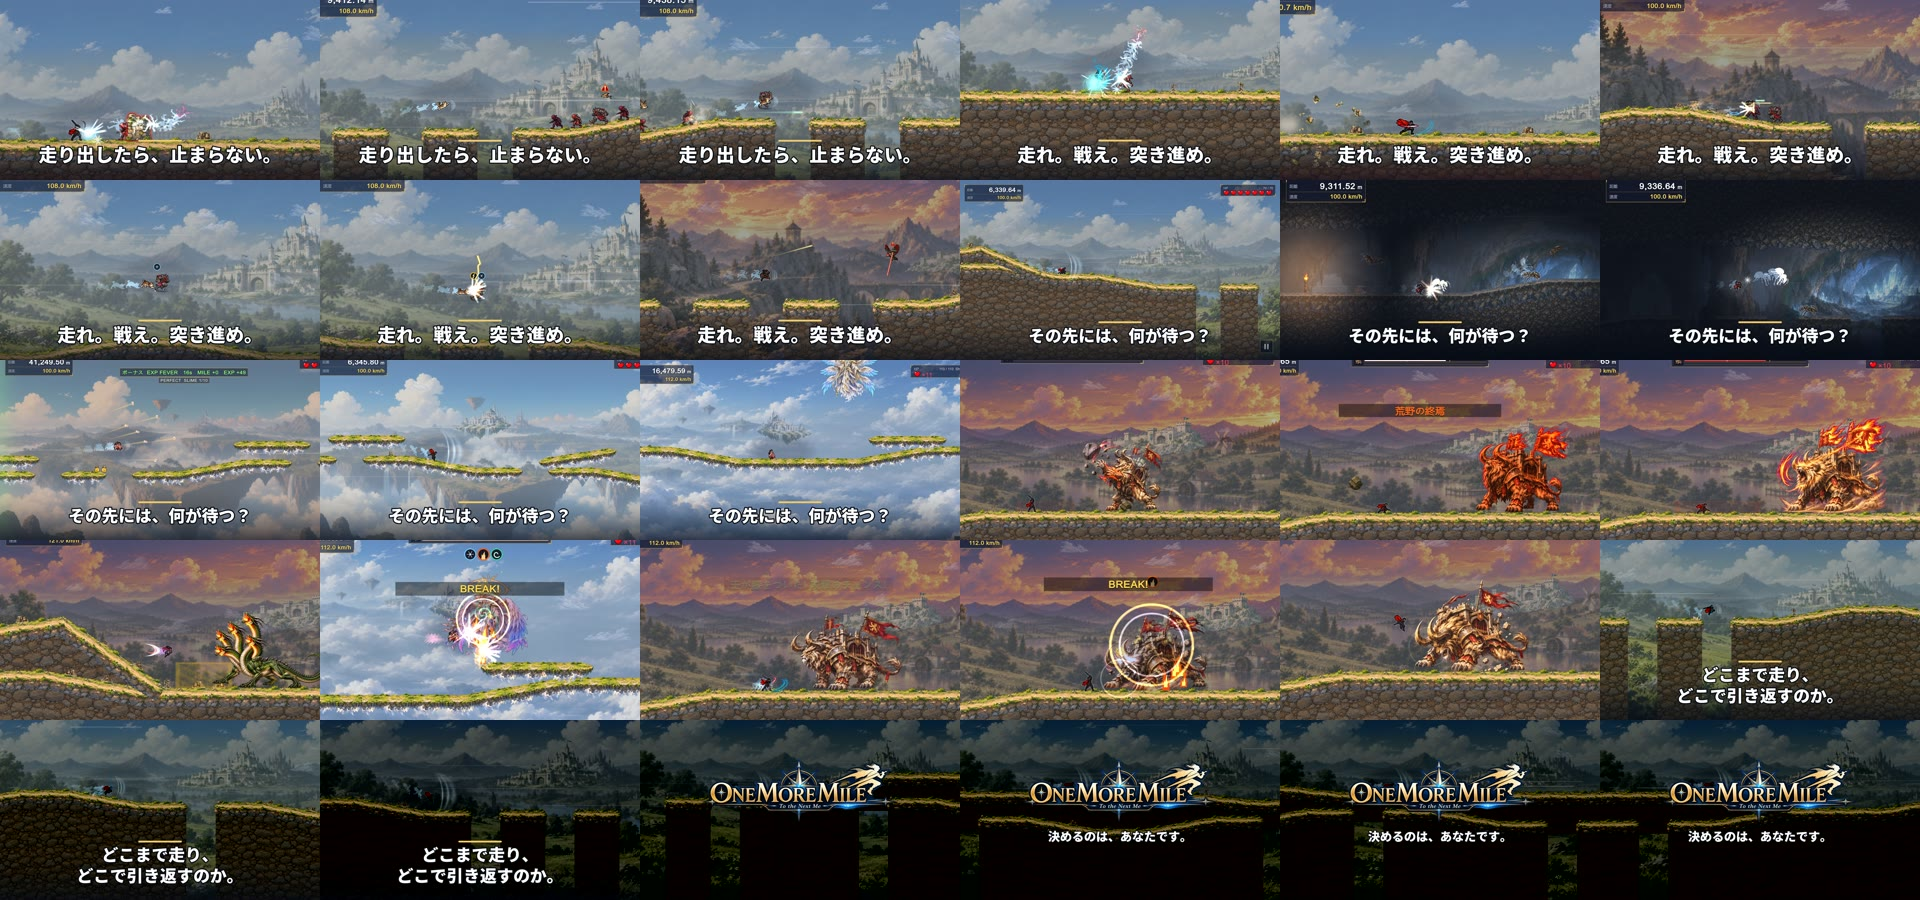
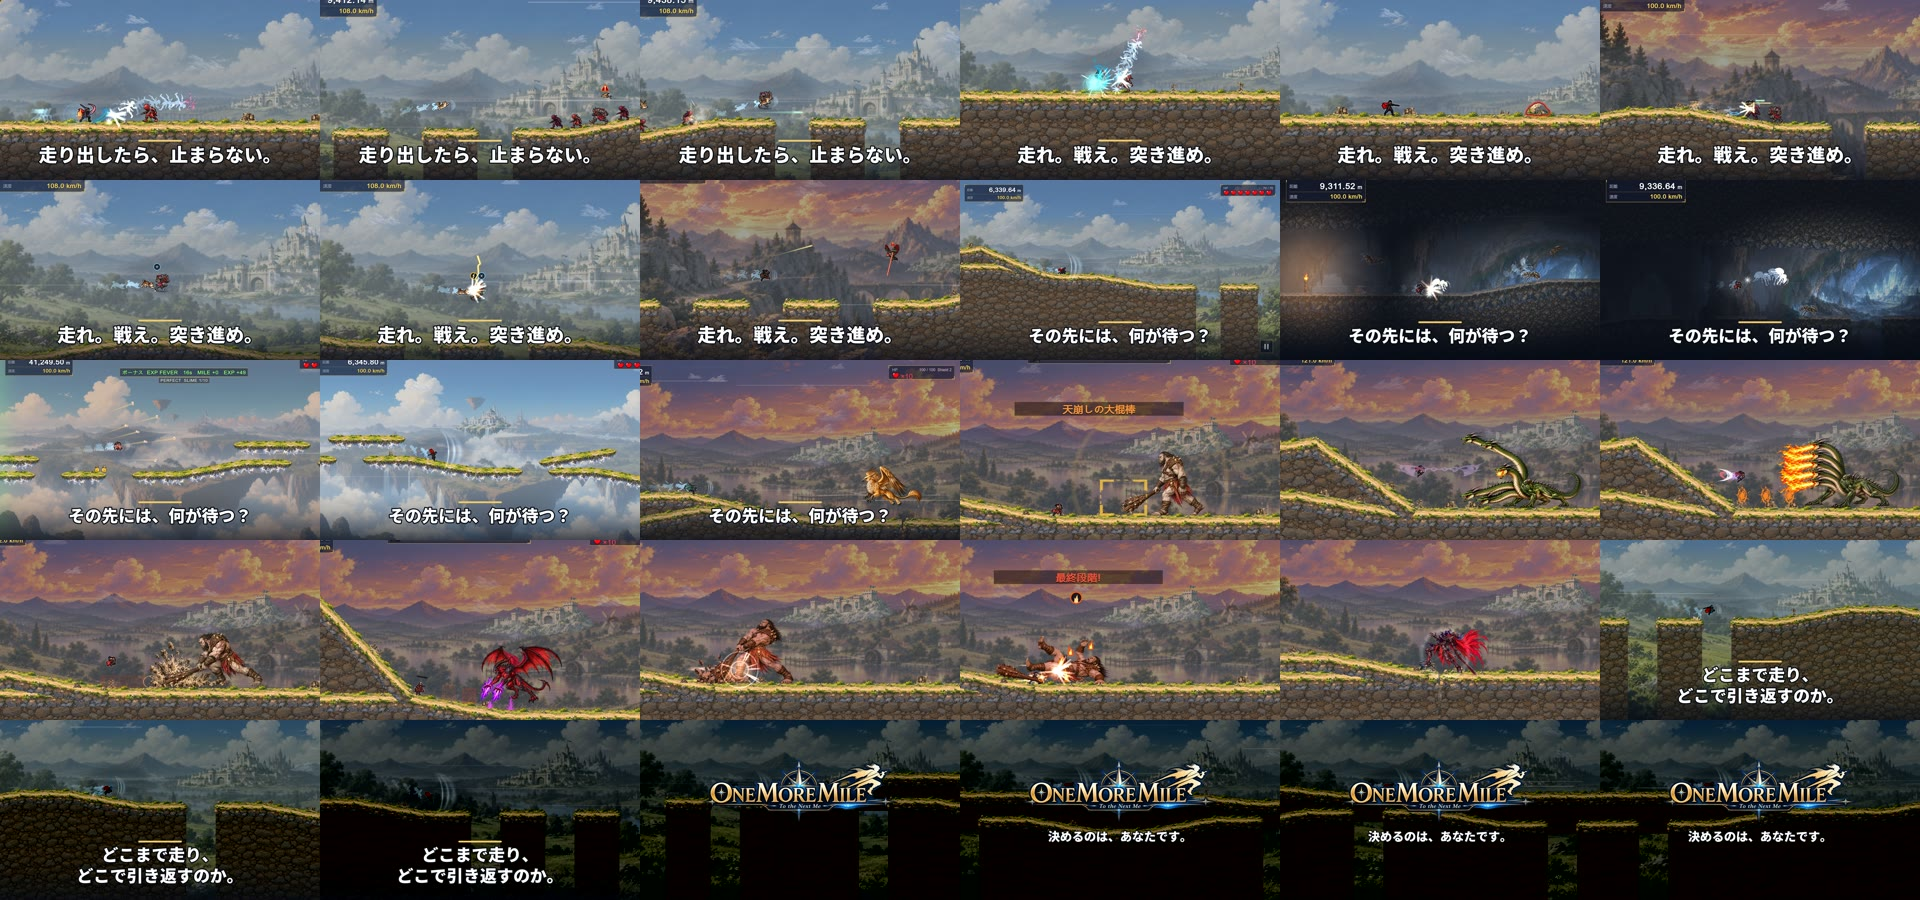
X 紹介 PV 第2版: ボスを通常ボスへ差し替え(ネタバレ回避)、冒頭を撮り直し
- 98km のラスボスを使わず、サイクロプス/ヒュドラ/デーモン/黒騎士/グリフォンで
  必殺技→回避→BREAK→最終段階→撃破
- 冒頭の赤い地面の場面を撮り直した場面へ(LEVEL UP の手前で切る)
- 4:5 の寄せは採用、全コマで キャラ/敵/予兆の見切れが無いことを確認
- 撮影の場面に通常ボス5体を追加(撮影用/開発版のみ)

Changed region(s): [[0.0, 0.3733, 1.0, 0.8089], [0.6562, 0.0, 0.8438, 0.1867], [0.0, 0.0, 0.1875, 0.1867]]

diff --git a/Docs/XPromo_2026-11-08/make_edl.py b/Docs/XPromo_2026-11-08/make_edl.py
@@ -7,11 +7,11 @@ def cut(shot, inn, beats, cx=.5, cy=.45, z45=1.25, z169=1.45, **kw):
     c.update(kw); return c
 cuts = [
     # A 0〜3秒: 強烈な導入(高速で走りながら斬り倒す)
-    cut("play/raw/aerial", 0.62, 4, cx=.50, cy=.34, z45=1.6, z169=1.75, scene="黒剣士: 斬り抜けて敵をまとめて打ち上げる(荒野街道)"),
+    cut("boss3/raw/aerial", 0.55, 4, cx=.48, cy=.40, z45=1.6, z169=1.75, scene="黒剣士: 雷の一撃 → 斬り抜けて敵をまとめて吹き飛ばす(荒野街道)"),
     cut("play/raw/pv_luka", 7.50, 4, cx=.42, cy=.40, scene="ルカ: 108km/h で敵の群れを突き抜ける(荒野街道)"),
     # B 3〜9秒: 爽快なアクション
     cut("play/raw/aerial_dual", 0.70, 3, cx=.40, cy=.50, z45=1.4, z169=1.55, scene="双剣士: 斬り上げ → 雷"),
-    cut("play/raw/aerial", 1.60, 2, cx=.42, cy=.36, z45=1.6, z169=1.75, scene="黒剣士: 空中の斬撃"),
+    cut("boss3/raw/aerial", 1.70, 2, cx=.45, cy=.42, z45=1.6, z169=1.75, scene="黒剣士: 走りながらの斬撃"),
     cut("play/raw/gunslinger", 1.45, 4, cx=.36, cy=.42, scene="二丁拳銃士: 撃ち抜いて吹き飛ばす(夕暮れの荒野)"),
     cut("play/raw/pv_luka", 9.65, 4, cx=.36, cy=.42, scene="ルカ: 空中で捕まえて連撃(雷)"),
     cut("play/raw/gunslinger", 9.40, 3, cx=.40, cy=.45, scene="二丁拳銃士: 空の敵の光線の下を駆け抜ける"),
@@ -20,14 +20,14 @@ cuts = [
     cut("play/raw/pv_fighter", 4.55, 4, cx=.36, cy=.40, z45=1.2, z169=1.35, vf="eq=gamma=1.08", scene="格闘家: 自然洞窟で蜘蛛/蝙蝠をはじき飛ばす"),
     cut("play/raw/miko", 1.50, 3, cx=.40, cy=.48, z45=1.1, z169=1.15, scene="巫女: 天空回廊で矢を放つ"),
     cut("play/raw/pv_road_sky", 1.00, 3, cx=.45, cy=.48, z45=1.1, z169=1.15, scene="天空回廊: 浮島を駆ける"),
-    cut("boss2/raw/pv_final_sky", 0.70, 3, cx=.50, cy=.35, z45=1.05, z169=1.1, scene="天空回廊のボスが空から降りてくる"),
-    # D 15〜23秒: 巨大ボス
-    cut("boss2/raw/pv_final_wild", 2.00, 4, cx=.62, cy=.45, z45=1.15, z169=1.3, scene="荒野の巨獣が迫る"),
-    cut("boss2/raw/pv_final_wild", 5.00, 4, cx=.55, cy=.45, z45=1.1, z169=1.25, scene="必殺技「荒野の終焉」(炎)"),
-    cut("boss2/raw/pv_boss_hydra", 9.70, 3, cx=.35, cy=.48, z45=1.15, z169=1.3, scene="ヒュドラの炎の息を跳んでかわす"),
-    cut("boss2/raw/pv_final_sky", 6.50, 3, cx=.50, cy=.45, z45=1.15, z169=1.3, scene="天空のボスに BREAK!"),
-    cut("boss2/raw/pv_final_wild", 11.20, 4, cx=.48, cy=.47, z45=1.15, z169=1.3, scene="「王が膝をついた！」BREAK 中の反撃"),
-    cut("boss2/raw/pv_final_wild", 17.40, 4, cx=.50, cy=.55, z45=1.15, z169=1.3, scene="強烈な一撃 → 巨獣が倒れる"),
+    cut("boss3/raw/pv_boss_griffin", 0.30, 3, cx=.62, cy=.40, z45=1.1, z169=1.2, scene="グリフォンが空から迫る(荒野街道)"),
+    # D 15〜23秒: 巨大ボス(第2版: ネタバレを避けて通常ボスだけ。98km のラスボスは使わない)
+    cut("boss3/raw/pv_boss_cyclops", 4.30, 4, cx=.55, cy=.45, z45=1.15, z169=1.3, scene="サイクロプス: 必殺技「天崩しの大棍棒」の溜め"),
+    cut("boss2/raw/pv_boss_hydra", 9.60, 4, cx=.45, cy=.48, z45=1.15, z169=1.3, scene="ヒュドラ: 必殺技「三首の連撃」の炎を跳んでかわす"),
+    cut("boss3/raw/pv_boss_cyclops", 7.00, 3, cx=.52, cy=.48, z45=1.15, z169=1.3, scene="サイクロプス: 大棍棒で地面を砕く"),
+    cut("boss3/raw/pv_boss_demon", 7.50, 3, cx=.55, cy=.45, z45=1.15, z169=1.3, scene="デーモン: 必殺技「冥界の魔柱陣」"),
+    cut("boss3/raw/pv_boss_cyclops", 11.00, 4, cx=.60, cy=.50, z45=1.15, z169=1.3, scene="サイクロプスに BREAK! → 最終段階"),
+    cut("boss2/raw/pv_boss_knight", 18.10, 4, cx=.45, cy=.55, z45=1.15, z169=1.3, scene="黒騎士: 強烈な一撃 → 撃破"),
 ]
 t = sum(c["dur"] for c in cuts)
 end = {"shot": "boss2/raw/pv_road", "in": 2.5, "dur": round(18 * B, 4), "cx": .45, "cy": .60, "x45": {"zoom": 1.2}, "x169": {"zoom": 1.2}, "se": 0.5,

diff --git a/Unity/2ndAction/Assets/Scripts/QaSweep.PromoCapture.cs b/Unity/2ndAction/Assets/Scripts/QaSweep.PromoCapture.cs
@@ -22,6 +22,12 @@ public partial class QaSweep
         "pv_vampire" => ScRunShot(s, "vampire", "sky_corridor", 9000f, 8, 12f),
         "pv_crowd_dual" => ScCrowdShot(s, "dual_blade"),
         "pv_boss_knight" => PvFinalShot(s, Arg("-pvCharK", "dual_blade"), "wasteland_road", 0, (int)WildBossKind.BlackKnight, 12150f),
+        // 2026-11-08 第2版: ネタバレを避けて通常ボス(関門のボス)で見せ場を撮る
+        "pv_boss_griffin" => PvFinalShot(s, Arg("-pvCharG", "dragon_lancer"), "wasteland_road", 0, (int)WildBossKind.Griffin, 12150f),
+        "pv_boss_demon" => PvFinalShot(s, Arg("-pvCharD", "vampire"), "wasteland_road", 0, (int)WildBossKind.Demon, 12150f),
+        "pv_boss_cyclops" => PvFinalShot(s, Arg("-pvCharY", "fighter"), "wasteland_road", 0, (int)WildBossKind.Cyclops, 12150f),
+        "pv_boss_golem" => PvFinalShot(s, Arg("-pvCharO", "swordsman"), "natural_cave", 1, (int)CaveBossKind.CrystalGolem, 16150f),
+        "pv_boss_behemoth" => PvFinalShot(s, Arg("-pvCharB", "archer"), "sky_corridor", 2, (int)SkyBossKind.Behemoth, 16150f),
         "pv_boss_hydra" => PvFinalShot(s, Arg("-pvCharH", "ninja"), "wasteland_road", 0, (int)WildBossKind.Hydra, 12150f),
         "pv_road" => PvRoadShot(s, Arg("-pvCharR", "swordsman"), "wasteland_road", float.Parse(Arg("-pvRoadAt", "6150"), System.Globalization.CultureInfo.InvariantCulture)),
         "pv_road_sky" => PvRoadShot(s, Arg("-pvCharR", "swordsman"), "sky_corridor", float.Parse(Arg("-pvRoadAt", "6150"), System.Globalization.CultureInfo.InvariantCulture)),

diff --git a/Docs/XPromo_2026-11-08/README.md b/Docs/XPromo_2026-11-08/README.md
@@ -1,4 +1,17 @@
-# X 投稿用 ゲーム紹介 PV(2026-11-08)
+# X 投稿用 ゲーム紹介 PV(2026-11-08、第2版 = 最終調整)
+
+## 第2版の変更(マスター/エステルの確認を受けて)
+1. **ネタバレ回避:** 98km のラスボス(ガルムード/セラフィエル)は使わない。ボスの場面はすべて通常の関門ボスにした。
+   - サイクロプス・ヒュドラ・デーモン・黒騎士、空から迫るのはグリフォン。
+   - 必殺技 → かわす → BREAK → 最終段階 → 撃破の盛り上がりは残した。
+2. **4:5 の寄せ:** そのまま採用。全コマ(0.25秒ごと)を見て確かめた。
+   - キャラ・敵・攻撃の予兆は見切れていない(サイクロプスの輪、ヒュドラの警告の枠、デーモンの魔柱、BREAK/最終段階の表示)。
+   - サイクロプスの必殺技の場面は中心を少し左へ寄せ、予兆の枠が中に入るようにした。
+3. **冒頭の赤い地面:** 不具合に見えるので、冒頭は撮り直した場面へ差し替えた(同じ黒剣士・荒野、普通の地面)。
+   - 雷の一撃 → 斬り抜けて敵をまとめて吹き飛ばす。
+   - 撮り直しの素材は LEVEL UP の表示が出る直前で切っている。
+4. 締めの2つの言葉はそのまま。
+5. テスター募集・Google Play への誘導は入れていない。
 
 目的: One More Mile を知らない人が、タイムラインで30秒見て興味を持つ PV。
 クローズドテスター募集・相互テスト・参加方法・URL は入れていない(純粋なゲーム紹介)。
@@ -6,8 +19,8 @@
 ## 完成ファイル(`video/`、mp4 は git に入れない)
 | ファイル | 大きさ | 内容 |
 |---|---|---|
-| `video/omm_pv30_x45_ja.mp4` | 1080×1350(4:5)・29.7秒・60fps・H.264 + AAC 192k・約41MB | **X 投稿の本命** |
-| `video/omm_pv30_x169_ja.mp4` | 1920×1080(16:9)・29.7秒・60fps・H.264 + AAC 192k・約75MB | 横画面版 |
+| `video/omm_pv30_x45_ja.mp4` | 1080×1350(4:5)・29.7秒・60fps・H.264 + AAC 192k・約41MB(第2版) | **X 投稿の本命** |
+| `video/omm_pv30_x169_ja.mp4` | 1920×1080(16:9)・29.7秒・60fps・H.264 + AAC 192k・約75MB(第2版) | 横画面版 |
 | `contact_x45.jpg` / `contact_x169.jpg` | 1秒ごとのコマの一覧 | 確認用 |
 
 - 音の大きさ: -14 LUFS(SNS の標準)、ピーク -1.8 dBTP。
@@ -19,25 +32,25 @@
 ## 構成と各場面の時間(BGM 162BPM の拍に合わせて切り替え: 1拍 = 0.370秒)
 | 時間 | 字幕 | 場面 | 素材(撮影名 / 開始秒) |
 |---|---|---|---|
-| 0.00–1.48 | 走り出したら、止まらない。 | 黒剣士: 斬り抜けて敵をまとめて打ち上げる(荒野街道) | aerial / 0.62 |
-| 1.48–2.96 | 〃 | ルカ: 108km/h で敵の群れを突き抜ける(荒野街道・城) | pv_luka / 7.50 |
-| 2.96–4.07 | 走れ。戦え。突き進め。 | 双剣士: 斬り上げ → 雷 | aerial_dual / 0.70 |
-| 4.07–4.81 | 〃 | 黒剣士: 空中の斬撃 | aerial / 1.60 |
-| 4.81–6.30 | 〃 | 二丁拳銃士: 撃ち抜いて吹き飛ばす(夕暮れの荒野) | gunslinger / 1.45 |
-| 6.30–7.78 | 〃 | ルカ: 空中で捕まえて連撃(雷) | pv_luka / 9.65 |
-| 7.78–8.89 | 〃 | 二丁拳銃士: 空の敵の光線の下を駆け抜ける | gunslinger / 9.40 |
-| 8.89–10.00 | その先には、何が待つ？ | 荒野街道: 城の見える道 | pv_road / 1.00 |
-| 10.00–11.48 | 〃 | 格闘家: 自然洞窟で蜘蛛/蝙蝠をはじき飛ばす | pv_fighter / 4.55 |
-| 11.48–12.59 | 〃 | 巫女: 天空回廊で矢を放つ | miko / 1.50 |
-| 12.59–13.70 | 〃 | 天空回廊: 浮島を駆ける | pv_road_sky / 1.00 |
-| 13.70–14.81 | 〃 | 天空回廊のボスが空から降りてくる | pv_final_sky / 0.70 |
-| 14.81–16.30 | (なし) | 荒野の巨獣が迫る | pv_final_wild / 2.00 |
-| 16.30–17.78 | (なし) | ボスの必殺技「荒野の終焉」(炎) | pv_final_wild / 5.00 |
-| 17.78–18.89 | (なし) | ヒュドラの炎の息を跳んでかわす | pv_boss_hydra / 9.70 |
-| 18.89–20.00 | (なし) | 天空のボスに BREAK! | pv_final_sky / 6.50 |
-| 20.00–21.48 | (なし) | 「王が膝をついた！」BREAK 中の反撃 | pv_final_wild / 11.20 |
-| 21.48–22.96 | (なし) | 強烈な一撃 → 巨獣が倒れる | pv_final_wild / 17.40 |
-| 22.96–26.0 | どこまで走り、どこで引き返すのか。 | 遠くまで続く道を走り続ける(少しずつ暗く) | pv_road / 2.50 |
+| 0.00–1.48 | 走り出したら、止まらない。 | 黒剣士: 雷の一撃 → 斬り抜けて敵をまとめて吹き飛ばす(荒野街道) | boss3/aerial / 0.55 |
+| 1.48–2.96 | 〃 | ルカ: 108km/h で敵の群れを突き抜ける(荒野街道・城) | play/pv_luka / 7.50 |
+| 2.96–4.07 | 走れ。戦え。突き進め。 | 双剣士: 斬り上げ → 雷 | play/aerial_dual / 0.70 |
+| 4.07–4.81 | 〃 | 黒剣士: 走りながらの斬撃 | boss3/aerial / 1.70 |
+| 4.81–6.30 | 〃 | 二丁拳銃士: 撃ち抜いて吹き飛ばす(夕暮れの荒野) | play/gunslinger / 1.45 |
+| 6.30–7.78 | 〃 | ルカ: 空中で捕まえて連撃(雷) | play/pv_luka / 9.65 |
+| 7.78–8.89 | 〃 | 二丁拳銃士: 空の敵の光線の下を駆け抜ける | play/gunslinger / 9.40 |
+| 8.89–10.00 | その先には、何が待つ？ | 荒野街道: 城の見える道 | boss2/pv_road / 1.00 |
+| 10.00–11.48 | 〃 | 格闘家: 自然洞窟で蜘蛛/蝙蝠をはじき飛ばす | play/pv_fighter / 4.55 |
+| 11.48–12.59 | 〃 | 巫女: 天空回廊で矢を放つ | play/miko / 1.50 |
+| 12.59–13.70 | 〃 | 天空回廊: 浮島を駆ける | play/pv_road_sky / 1.00 |
+| 13.70–14.81 | 〃 | グリフォンが空から迫る | boss3/pv_boss_griffin / 0.30 |
+| 14.81–16.30 | (なし) | サイクロプス: 必殺技「天崩しの大棍棒」の溜め | boss3/pv_boss_cyclops / 4.30 |
+| 16.30–17.78 | (なし) | ヒュドラ: 「三首の連撃」の炎を跳んでかわす | boss2/pv_boss_hydra / 9.60 |
+| 17.78–18.89 | (なし) | サイクロプス: 大棍棒で地面を砕く | boss3/pv_boss_cyclops / 7.00 |
+| 18.89–20.00 | (なし) | デーモン: 必殺技「冥界の魔柱陣」 | boss3/pv_boss_demon / 7.50 |
+| 20.00–21.48 | (なし) | サイクロプスに BREAK! → 最終段階 | boss3/pv_boss_cyclops / 11.00 |
+| 21.48–22.96 | (なし) | 黒騎士: 強烈な一撃 → 撃破 | boss2/pv_boss_knight / 18.10 |
+| 22.96–26.0 | どこまで走り、どこで引き返すのか。 | 遠くまで続く道を走り続ける(少しずつ暗く) | boss2/pv_road / 2.50 |
 | 26.0–29.63 | ロゴ「ONE MORE MILE」→ 決めるのは、あなたです。 | 〃 | 〃 |
 
 - ボスの場面(15〜23秒)は字幕なし。ボスの技名・BREAK・「王が膝をついた！」などゲーム自身の表示で見せる。
@@ -48,7 +61,7 @@
   - 撮影用ビルドが本物のキーに書く窓の大きさの設定は、撮影のたびに元の値へ戻した。
 - 新しく足した撮影の場面: `Unity/2ndAction/Assets/Scripts/QaSweep.PromoCapture.cs`(撮影用/開発版だけ。ゲームの仕様は不変)。
   - pv_final_wild/cave/sky: マップのラスボスの登場 → 必殺技 → BREAK → 撃破。
-  - pv_boss_knight/hydra: 通常ボス。
+  - pv_boss_knight/hydra/griffin/demon/cyclops/golem/behemoth: 通常ボス(第2版で使用)。
   - pv_road(_sky): 敵の出ない区間を走るだけ。
   - pv_trio_*: 95km の3体同時。今回は未使用。
 - 撮影の都合で決めたこと(性能や見た目は変えていない):
@@ -56,7 +69,7 @@
   - BREAK は「崩しのゲージが溜まる時刻」だけを決め、必殺技・撃破は呼び出した。
   - BONUS ZONE は起こさない。
   - 敵の出ない区間は出現率を 0 にした。
-- 撮影素材(劣化なし、17GB): `C:/GameProject/SteamCaptureArchive/2026-11-08_XPromo/{play,boss2}/raw/*.mkv + .wav`
+- 撮影素材(劣化なし、約23GB): `C:/GameProject/SteamCaptureArchive/2026-11-08_XPromo/{play,boss2,boss3}/raw/*.mkv + .wav`
 
 ## 音
 - BGM: ゲーム内の `bgm_boss_strong_n.wav`(162BPM、頭から勢いのある曲)を通しで流した。
@@ -69,7 +82,7 @@
 **A(短い・推奨)**
 > 走り出したら、止まらない。
 > 自動で走り続けながら、フリックで斬る・打ち上げる・空中で決める。
-> 荒野、洞窟、天空――その先に待つ巨大なボスへ。
+> 荒野、洞窟、天空――その先に待つ巨大なボスたちへ。
 > どこまで走り、どこで引き返すのか。決めるのは、あなたです。
 > #OneMoreMile #インディーゲーム #ゲーム開発
 
@@ -78,12 +91,10 @@
 > 疾走アクション『ONE MORE MILE』
 > #OneMoreMile #インディーゲーム #indiegame
 
-## 確認してほしい点(マスター/エステル)
-1. **ボスの見せ方(ネタバレ):** 15〜23秒の巨獣と、14秒と19秒の天空のボスは、各マップの 98km のボス(ガルムード/セラフィエル)です。
-   - 名前は出しておらず、技名と BREAK だけ見えます。
-   - 終盤の核心と感じる場合は、通常ボス(黒騎士・ヒュドラ)の素材も撮ってあるので差し替えられます。
-2. 4:5 版の寄せ方(1.1〜1.75倍)。HUD の端が少し切れる場面があります(戦闘は見切れていません)。
-3. 冒頭の場面で、地面の下の方が赤く写っています。ゲームの実際の表示で、加工ではありません。
+## 第1版で確認いただいた点の結果
+- 98km のラスボス: 使わない(第2版で差し替え済み)。撮影の場面(pv_final_*)はコードに残しているが、動画には使っていない。
+- 4:5 の寄せ: 採用。HUD の端が少し切れるのは問題なしとのこと。
+- 冒頭の赤い地面: 差し替え済み。
 
 ## 作り直し方
 ```bash
